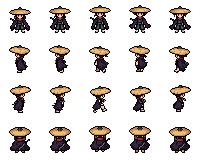
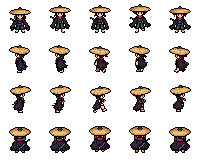
女主人公の下向きの歩行で足が交互に動くようにする (#78)
* 女主人公の下向きの歩行で足が交互に動くようにする

下向きの歩行は合羽が揺れるだけで 4 コマとも足が同じ形だった。
PixelLab で作り直すと足が動かないか人物が崩れたため、採用済みのコマの足だけを
scripts/fix_hero_f_walk_down.py で描き直した（列 1 で左足を上げ右足を前へ、列 3 でその逆）。

Claude-Session: https://claude.ai/code/session_01TGCvVcqbgp7yHTdPQmz6ms

* 足元を基準の行にそろえ、スクリプトの確認と手順の注記を足す

- 列 1・3 はコマ全体を 1px 上げ、前に出した足を足元の行にそろえる
- シートの大きさと、足の位置に絵があることを確かめてから描き直す
- README のシートを作る手順に、hero_f の後処理を書く

Claude-Session: https://claude.ai/code/session_01TGCvVcqbgp7yHTdPQmz6ms

---------

Changed region(s): [[0.63, 0.0312, 0.75, 0.2188], [0.24, 0.0312, 0.36, 0.2188]]

diff --git a/scripts/fix_hero_f_walk_down.py b/scripts/fix_hero_f_walk_down.py
@@ -1,0 +1,74 @@
+"""女主人公（hero_f）の下向きの歩行で、足が動くように描き直す。
+
+PixelLab の歩行（v3）は、下向きだと合羽が揺れるだけで 4 コマとも足が同じ形だった（テストプレイで「足が動いておらず歩いているように
+見えない」と指摘された）。AI に作り直させると人物の形が崩れたため、採用済みのコマの足だけを動かす。
+
+使い方: python3 scripts/fix_hero_f_walk_down.py public/assets/chars/hero_f.png
+  scripts/pack_character.py でシートを作り直したあとに 1 回だけ実行する（2 回目は、足がすでに動いているので止まる）。
+必要なもの: Pillow
+
+- 列 1: 左足（画面の左）を 1px 上げて裾に隠し、右足を 1px 前（下）に出す。列 3: その逆。列 2・4: 両足をそろえたまま
+- 前に出した足と裾の間は、元の脚絆の行で埋める
+- 列 1・3 はコマ全体を 1px 上げる（一歩ごとに体が浮く。前に出した足のつま先を、ほかのコマと同じ足元の行 BOT にそろえる。
+  scripts/pack_character.py の FOOT_Y と src/data/sprites.ts の CHAR_DISPLAY_ORIGIN の前提）
+"""
+import sys
+
+from PIL import Image
+
+FRAME = 40
+# 足（輪郭を含む）が見えているコマの中の範囲。x は左足・右足、y は裾のすぐ下からつま先まで
+FEET = {"L": (15, 18), "R": (21, 24)}
+TOP, BOT = 30, 32
+PLAN = {1: {"L": -1, "R": 1}, 3: {"L": 1, "R": -1}}
+
+
+def shoes(frame: Image.Image) -> list:
+    """靴の 2 行と、その下の 1 行（脚絆の行はコマごとに少し違うので見ない）。"""
+    return [frame.getpixel((x, y)) for x0, x1 in FEET.values() for x in range(x0, x1 + 1) for y in range(BOT - 1, BOT + 2)]
+
+
+def move(frame: Image.Image, side: str, dy: int) -> None:
+    x0, x1 = FEET[side]
+    px = {(x, y): frame.getpixel((x, y)) for x in range(x0, x1 + 1) for y in range(TOP, BOT + 1)}
+    for x, y in px:
+        if not (dy > 0 and y == TOP):
+            frame.putpixel((x, y), (0, 0, 0, 0))
+    for (x, y), c in px.items():
+        ny = y + dy
+        # 上げた足は裾（TOP より上）に隠れる分を切る
+        if c[3] and TOP <= ny <= BOT + 1:
+            frame.putpixel((x, ny), c)
+
+
+def lift(frame: Image.Image) -> Image.Image:
+    """コマ全体を 1px 上げる（いちばん上の行は透明なので、何も切れない）。"""
+    if frame.getbbox()[1] == 0:
+        raise SystemExit("エラー: コマのいちばん上まで絵があり、1px 上げられません")
+    out = Image.new("RGBA", frame.size, (0, 0, 0, 0))
+    out.paste(frame.crop((0, 1, FRAME, FRAME)), (0, 0))
+    return out
+
+
+def main(path: str) -> None:
+    sheet = Image.open(path).convert("RGBA")
+    if sheet.size != (FRAME * 5, FRAME * 4):
+        raise SystemExit(f"エラー: シートの大きさが {sheet.size} です（1 コマ {FRAME} × {FRAME}、5 列 4 行を想定）")
+    row = [sheet.crop((c * FRAME, 0, c * FRAME + FRAME, FRAME)) for c in range(5)]
+    if all(px[3] == 0 for px in shoes(row[2])):
+        raise SystemExit("エラー: 下向きの歩行の足の位置に絵がありません（シートの形が変わっています）")
+    # 描き直さない列 2 と比べる（立ち姿の列 0 とは輪郭の黒がわずかに違う）
+    if any(shoes(row[c]) != shoes(row[2]) for c in (1, 3, 4)):
+        raise SystemExit("エラー: 下向きの歩行の 4 コマで足が同じではありません（すでに描き直したか、シートの形が変わっています）")
+    for col, moves in PLAN.items():
+        frame = row[col]
+        for side, dy in moves.items():
+            move(frame, side, dy)
+        sheet.paste(lift(frame), (col * FRAME, 0))
+    sheet.save(path)
+
+
+if __name__ == "__main__":
+    if len(sys.argv) != 2:
+        raise SystemExit("使い方: python3 scripts/fix_hero_f_walk_down.py <hero_f のシート>")
+    main(sys.argv[1])
